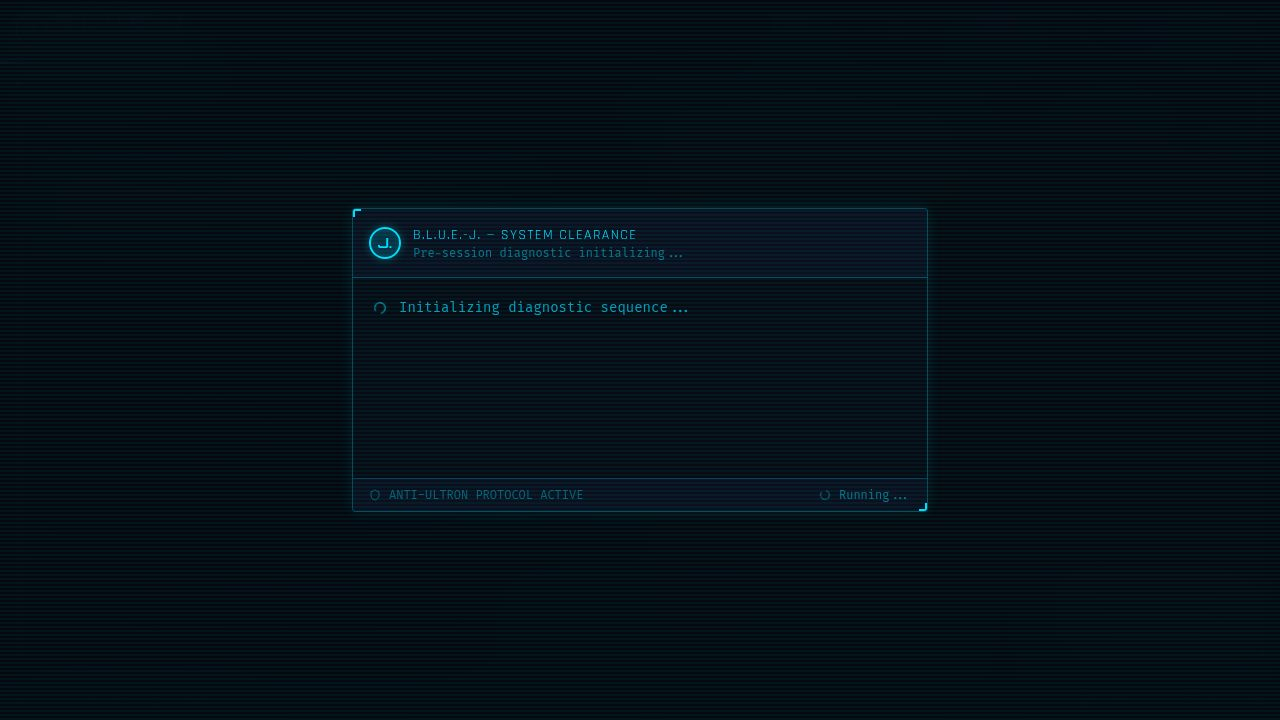
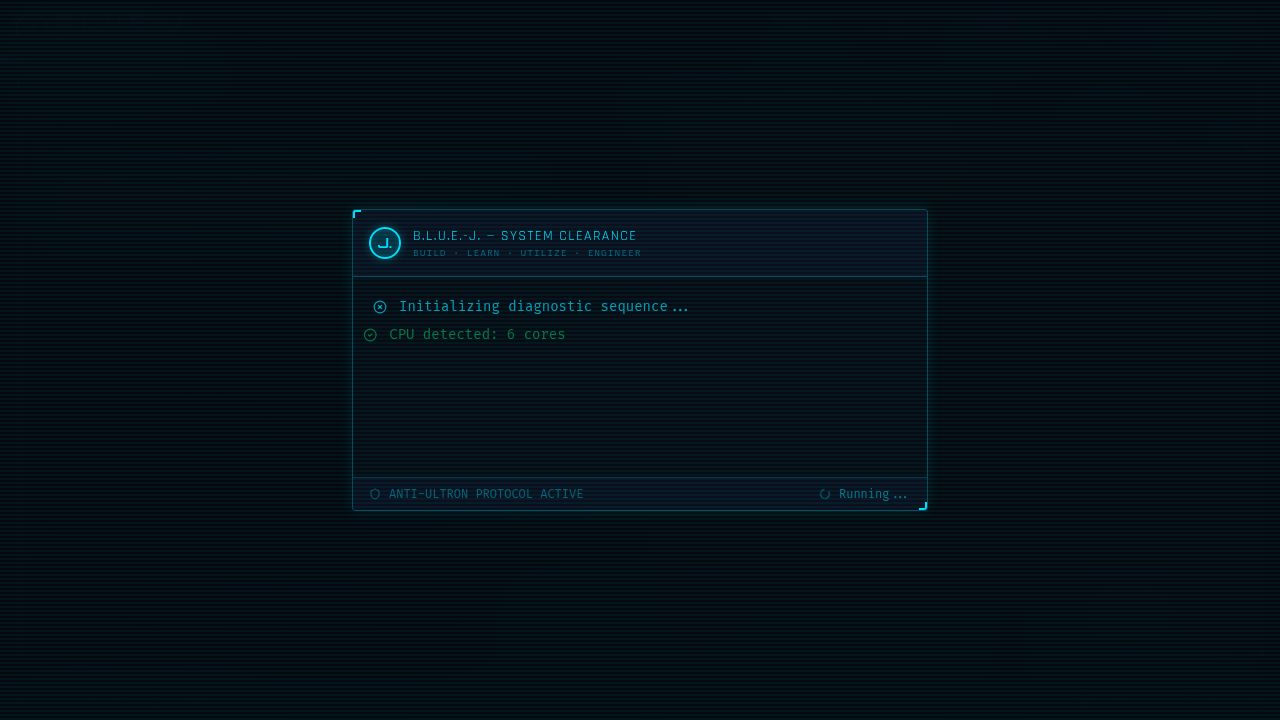
Make profile selection menu appear above the button
Update IdePanel.tsx to use createPortal for the profile menu, and implement useRef and getBoundingClientRect to position the menu correctly relative to the button.

Replit-Commit-Author: Agent
Replit-Commit-Session-Id: d296fa38-f3fa-4ffe-94eb-0f126b76a00d
Replit-Commit-Checkpoint-Type: full_checkpoint
Replit-Commit-Event-Id: baa8fdb7-d415-4a2d-9e67-1e99d7bba240
Replit-Commit-Screenshot-Url: https://storage.googleapis.com/screenshot-production-us-central1/6c5fbfbf-ca40-48a3-9a7f-d2c9cf37365a/d296fa38-f3fa-4ffe-94eb-0f126b76a00d/D1est6P
Replit-Helium-Checkpoint-Created: true

diff --git a/artifacts/blue-j/src/components/IdePanel.tsx b/artifacts/blue-j/src/components/IdePanel.tsx
@@ -1,4 +1,5 @@
 import { useState, useMemo, useRef, useEffect } from 'react';
+import { createPortal } from 'react-dom';
 import { useBlueJStore, SIM_PROFILES, type SimHardwareProfile } from '@/lib/store';
 import { Prism as SyntaxHighlighter } from 'react-syntax-highlighter';
 import { vscDarkPlus } from 'react-syntax-highlighter/dist/esm/styles/prism';
@@ -61,6 +62,8 @@ export function IdePanel() {
   const [showDownload, setShowDownload] = useState(false);
   const [showTerminal, setShowTerminal] = useState(false);
   const [showProfileMenu, setShowProfileMenu] = useState(false);
+  const [profileMenuPos, setProfileMenuPos] = useState({ top: 0, left: 0 });
+  const profileBtnRef = useRef<HTMLButtonElement>(null);
 
   // Simulation
   const [simulating, setSimulating] = useState(false);
@@ -557,7 +560,14 @@ export function IdePanel() {
             <div className="relative">
               <Tooltip content="Select hardware target for AI simulation" position="top">
                 <button
-                  onClick={() => setShowProfileMenu(v => !v)}
+                  ref={profileBtnRef}
+                  onClick={() => {
+                    if (!showProfileMenu && profileBtnRef.current) {
+                      const r = profileBtnRef.current.getBoundingClientRect();
+                      setProfileMenuPos({ top: r.top, left: r.left });
+                    }
+                    setShowProfileMenu(v => !v);
+                  }}
                   className="flex items-center gap-1.5 px-2.5 py-1.5 border border-primary/30 bg-primary/5 hover:bg-primary/10 text-primary/70 hover:text-primary rounded-sm transition-all text-xs font-hud uppercase tracking-wider"
                 >
                   <Cpu className="w-3.5 h-3.5 flex-shrink-0" />
@@ -565,41 +575,6 @@ export function IdePanel() {
                   <ChevronDown className="w-3 h-3" />
                 </button>
               </Tooltip>
-
-              <AnimatePresence>
-                {showProfileMenu && (
-                  <motion.div
-                    initial={{ opacity: 0, y: 4 }}
-                    animate={{ opacity: 1, y: 0 }}
-                    exit={{ opacity: 0, y: 4 }}
-                    className="absolute bottom-full mb-1 left-0 z-50 bg-background border border-primary/30 rounded-sm min-w-[260px] shadow-xl shadow-black/60"
-                  >
-                    <div className="px-3 py-2 border-b border-primary/20 text-[0.65rem] font-hud text-primary/50 uppercase tracking-widest flex items-center gap-2">
-                      <Activity className="w-3 h-3" />
-                      <span>Simulation Hardware Profile</span>
-                    </div>
-                    <div className="px-3 py-2 bg-green-900/20 border-b border-green-500/20">
-                      <p className="text-[0.65rem] text-green-400/80 font-mono leading-relaxed">
-                        ✓ AI Simulation Mode — no local runtime required for Simulate.
-                        Use "Run" for actual live execution on this server.
-                      </p>
-                    </div>
-                    {SIM_PROFILES.map(profile => (
-                      <button
-                        key={profile.id}
-                        onClick={() => { setSimHardwareProfile(profile.id); setShowProfileMenu(false); setSimResult(null); }}
-                        className={`w-full text-left px-3 py-2.5 flex items-start gap-3 hover:bg-primary/10 transition-colors border-b border-primary/10 last:border-0 ${simHardwareProfile === profile.id ? 'bg-primary/10' : ''}`}
-                      >
-                        <ChevronRight className={`w-3 h-3 mt-0.5 flex-shrink-0 ${simHardwareProfile === profile.id ? 'text-primary opacity-100' : 'opacity-0'}`} />
-                        <div>
-                          <div className={`text-xs font-hud uppercase tracking-wider ${simHardwareProfile === profile.id ? 'text-primary' : 'text-primary/70'}`}>{profile.label}</div>
-                          <div className="text-[0.65rem] text-primary/40 font-mono mt-0.5">{profile.desc}</div>
-                        </div>
-                      </button>
-                    ))}
-                  </motion.div>
-                )}
-              </AnimatePresence>
             </div>
           </div>
 
@@ -634,7 +609,44 @@ export function IdePanel() {
       </div>
 
       {showDownload && <DownloadModal onClose={() => setShowDownload(false)} />}
-      {showProfileMenu && <div className="fixed inset-0 z-40" onClick={() => setShowProfileMenu(false)} />}
+
+      {/* Profile dropdown — portal so overflow:hidden on the IDE panel doesn't clip it */}
+      {showProfileMenu && createPortal(
+        <>
+          {/* Backdrop */}
+          <div className="fixed inset-0 z-[9998]" onClick={() => setShowProfileMenu(false)} />
+          {/* Menu — positioned above the trigger button */}
+          <div
+            className="fixed z-[9999] bg-background border border-primary/30 rounded-sm min-w-[260px] shadow-xl shadow-black/80"
+            style={{ top: profileMenuPos.top - 4, left: profileMenuPos.left, transform: 'translateY(-100%)' }}
+          >
+            <div className="px-3 py-2 border-b border-primary/20 text-[0.65rem] font-hud text-primary/50 uppercase tracking-widest flex items-center gap-2">
+              <Activity className="w-3 h-3" />
+              <span>Simulation Hardware Profile</span>
+            </div>
+            <div className="px-3 py-2 bg-green-900/20 border-b border-green-500/20">
+              <p className="text-[0.65rem] text-green-400/80 font-mono leading-relaxed">
+                ✓ AI Simulation Mode — J. predicts output for the selected target.
+                Use "Run" for actual live server execution.
+              </p>
+            </div>
+            {SIM_PROFILES.map(profile => (
+              <button
+                key={profile.id}
+                onClick={() => { setSimHardwareProfile(profile.id); setShowProfileMenu(false); setSimResult(null); }}
+                className={`w-full text-left px-3 py-2.5 flex items-start gap-3 hover:bg-primary/10 transition-colors border-b border-primary/10 last:border-0 ${simHardwareProfile === profile.id ? 'bg-primary/10' : ''}`}
+              >
+                <ChevronRight className={`w-3 h-3 mt-0.5 flex-shrink-0 ${simHardwareProfile === profile.id ? 'text-primary opacity-100' : 'opacity-0'}`} />
+                <div>
+                  <div className={`text-xs font-hud uppercase tracking-wider ${simHardwareProfile === profile.id ? 'text-primary' : 'text-primary/70'}`}>{profile.label}</div>
+                  <div className="text-[0.65rem] text-primary/40 font-mono mt-0.5">{profile.desc}</div>
+                </div>
+              </button>
+            ))}
+          </div>
+        </>,
+        document.body
+      )}
     </>
   );
 }